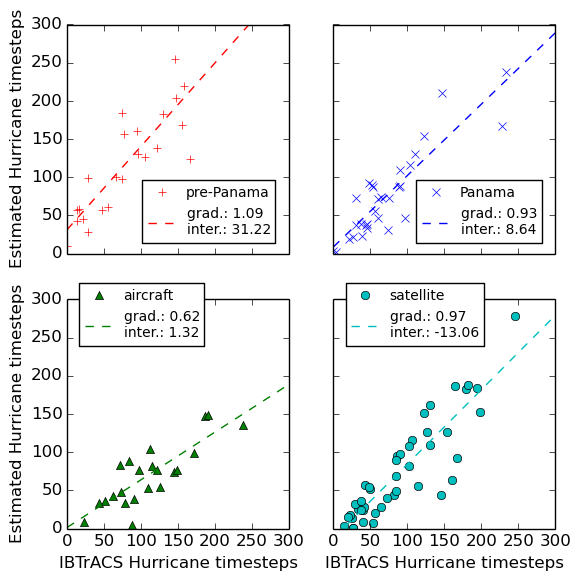
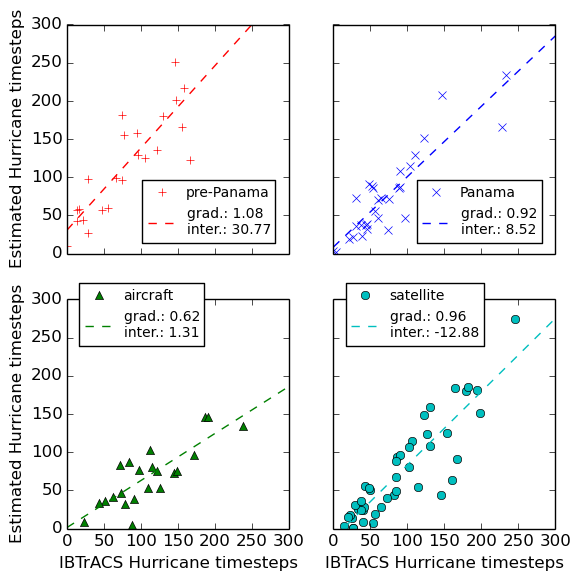
Tidy up some loose ends in 20th C analysis.
Make terminology consistent, fix adjustment ratio used in figs, add in a couple of clarifying
sentences.

diff --git a/dissertation.tex b/dissertation.tex
@@ -19,11 +19,6 @@
 % Get rid of annoying line under header.
 \renewcommand{\headrulewidth}{0pt}
 
-% Properly fixed by installing texlive-fonts-recommended
-% Temporary fix for missing font problem.
-% N.B. I know this is wrong, but there is a problem with missing fonts otherwise.
-% \renewcommand{\textdegree}{$^{\circ}$ }
-
 \lhead{}
 \chead{}
 \rhead{}
@@ -102,12 +97,12 @@ on classification success and error metrics. It is found that a Stochastic Gradi
 classifier combined with a simple threshold classifier produces the highest combined score on these
 metrics.
 
-The hurricane detection procedure is run over the course of the 20\ts{th} Century, and a comparison
+The hurricane detection procedure is run over the course of the 20\ts{th} century, and a comparison
 between the estimated number of hurricanes and the number as recorded in the IBTrACS dataset is
 performed. It is found that TODOWRITE
 
 \begin{center}
-\textbf{Word count:} 8194 % 7229 + 965 (captions) 24/08/14 18:14
+\textbf{Word count:} 9439 % 8221 + 1218 (captions) 26/08/14 11:08
 \end{center}
 
 \section*{Acknowledgements}
@@ -1173,24 +1168,27 @@ classifier to use.
 
 Figure \ref{fig:20th_century_hurricane_timesteps} shows a comparison of the number of hurricane
 timesteps (as defined in Section \ref{sec:ibtracs}) taken from the IBTrACS dataset, and calculated
-from the 20CR dataset. To work out the estimate for the number of hurricanes, the detection
-procedure was run over each year of the period from 1890 to 2009, and for each ensemble member. This
-was used to work out a value for the predicted number of hurricanes for each year, with one value
-per ensemble member. The sensitivity and PPV from the years 1990 to 2009 (the training and
-validation period combined) were used in the formula given in Section
-\ref{sec:estimated_hurricanes}, to give the estimated number of hurricanes for each year. The
-maximum and minimum numbers of hurricanes in any ensemble member were used to plot the light blue
-area, and the mean of the ensemble members was plotted using a blue dashed line.
+from the 20CR dataset. To calculate the estimate for the number of hurricane timesteps (henceforth
+estimated hurricane timesteps), the detection procedure was run over each year of the period from
+1890 to 2009, and for each ensemble member. This was used to work out a value for the predicted
+number of hurricane timesteps for each year, with one value per ensemble member. The sensitivity and
+PPV from the years 1990 to 2009 (the training and validation period combined) were used in the
+formula given in Section \ref{sec:estimated_hurricanes}, to give the estimated hurricane timesteps
+for each year. This was done multiplying each predicted number of hurricane timesteps by the PPV
+divided by the sensitivity, or a factor of $\frac{0.728}{0.637} = 1.143$ . The maximum and minimum
+numbers of estimated hurricane timesteps in any ensemble member were used to plot the light blue
+area, and the mean of the ensemble members was plotted using the blue dashed line.
 
 From the top graph in Figure \ref{fig:20th_century_hurricane_timesteps}, there is clearly a marked
 correlation between the two time series. There is also a suggestion of a discrepancy between the two
-time series in the pre-Panama canal era and the aircraft reconnaissance era, with the estimated
-hurricanes from the 20CR dataset being greater in the pre-Panama canal era, and fewer in the
+time series in the pre-Panama Canal era and the aircraft reconnaissance era, with the estimated
+hurricane timesteps being greater in the pre-Panama Canal era, and fewer in the
 aircraft reconnaissance era. This is borne out by the bottom graph in Figure 
-\ref{fig:20th_century_hurricane_timesteps}, which shows the best tracks hurricanes minus the
-estimated hurricanes. Here there is a clear sign that the best tracks number of hurricanes is
-substantially lower than the estimated hurricanes in the pre-Panama canal era, and also that the
-number of best tracks hurricanes is substantially larger in the aircraft (and early satellite) era.
+\ref{fig:20th_century_hurricane_timesteps}, which shows the best tracks hurricane timesteps minus the
+estimated hurricane timesteps. Here there is a clear sign that the best tracks hurricane timesteps
+is substantially lower than the estimated hurricane timesteps in the pre-Panama Canal era. It is
+also evident that the best tracks hurricane timesteps is substantially larger in the aircraft (and
+early satellite) era.
 
 \begin{figure}[ht!]
     \centering
@@ -1208,50 +1206,53 @@ number of best tracks hurricanes is substantially larger in the aircraft (and ea
 
 \newpage
 Figure \ref{fig:20th_century_hurricane_corr} shows the correlation of the two time series, first
-over the whole of the time period, and second by dividing the time period into two roughly equal
-periods, based on the start of aircraft reconnaissance (1944). Given the high $r^2$ value of \SI{0.63}{}
-shown in the first correlation plot, these series are very well correlated. The gradient is less than
-unity though which implies that the estimated hurricanes is underestimating how many hurricanes there
-were over the whole period (although this effect is slightly mitigated by the positive y-intercept).
-From analysing the two time periods separately, as in the second correlation plot, a clear
-distinction between the two periods can be seen, with the pre-1944 estimated numbers clearly
-estimating more hurricanes than were seen in the best tracks database, and the reverse being true in
-the post-1944 period. The pre-1944 period has a gradient of TODOCHECK and a y-intercept of TODOCHECK.
-The post-1944 period has a slop of TODOCHECK ad a y-intercept of TODOCHECK.
+over the whole of the time period, and second by splitting the time period into two roughly equal
+periods, based on the start of aircraft reconnaissance (1944). Given the high $r^2$ value of
+\SI{0.63}{} shown in the first correlation plot, these series are very well correlated. The gradient
+is less than unity though which implies that the estimated hurricane timesteps is underestimating
+how many hurricanes there were over the whole period (although this effect is slightly mitigated by
+the positive y-intercept).  From analysing the two time periods separately, as in the second
+correlation plot, a clear distinction between the two periods can be seen, with the pre-1944
+estimated numbers clearly estimating more hurricanes than were seen in the best tracks database, and
+the reverse being true in the post-1944 period.
 
 \begin{figure}[hb!]
     \centering
     \includegraphics[width=\textwidth]{figures/20th_century_corr}
-    \caption{Correlation plots showing the whole of the 20\ts{th} Century (left) and dividing the
-    20\ts{th} Century into pre-1944 and post-1944 (right). From the left plot, the high value for
-    $r^2$ indicates good correlation between the two datasets. From the right plot,  the different
+    \caption{Correlation plots showing the whole of the 20\ts{th} century (left) and splitting the
+    20\ts{th} century into pre-1944 and post-1944 (right). From the left plot, the high value for
+    $r^2$ indicates good correlation between the two time series. From the right plot, the different
     gradients of the lines of best fit indicate that in the pre-1944 period the estimated tracks
     were on average higher than the best tracks, and in the post-1944 period the estimates tracks were
-    lower.}
+    lower. The pre-1944 period has a gradient of \SI{1.04}{} and a y-intercept of \SI{15.31}{}. The
+    post-1944 period has a slop of \SI{0.83}{} and a y-intercept of \SI{-8.52}{}. }
     \label{fig:20th_century_hurricane_corr}
 \end{figure}
 
 \newpage
 Figure \ref{fig:20th_century_hurricane_corr_split} shows a finer breakdown of the two series, based
-on the four eras listed in Section TODOREF. This again shows that the number of estimated hurricanes
-in the pre-Panama Canal era is far higher than in the best tracks database, both due to the large 
-positive y-intercept and the gradient which is greater than unity. Reasons for this are discussed in
-Section TODOREF. In the next era, the Panama era, the gradient is slightly below unity, and the
+on the four eras listed in Section TODOREF. This again shows that the number of estimated hurricane
+timesteps in the pre-Panama Canal era is far higher than in the best tracks database, both due to
+the large positive y-intercept and the gradient which is greater than unity. Reasons for this are
+discussed in Section TODOREF. In the Panama Canal era, the gradient is slightly below unity, and the
 y-intercept is small and positive, which means that the two time series are well matched. The most
 surprising era is the aircraft reconnaissance era, for which the gradient is substantially less than
 unity, and the y-intercept is very close to zero. This means that during the aircraft reconnaissance
-era, the estimated hurricanes were almost always lower than the best tracks hurricanes. Reasons as
-to why this might be are discussed in Section TODOREF.  Finally, in the satellite era, the gradient is
-very close to unity, and the y-intercept is significantly negative, indicating that during this era
-the estimated number of hurricanes is systematically lower than the best tracks number of
-hurricanes.
+era, the estimated hurricane timesteps were almost always lower than the best tracks hurricane
+timesteps, with the effect becoming more pronounced as the hurricane timesteps per year increases.
+Reasons as to why this might be are discussed in Section TODOREF. Finally, in the satellite era, the
+gradient is very close to unity, and the y-intercept is significantly negative, indicating that
+during this era the estimated hurricane timesteps is systematically lower than the best tracks
+hurricane timesteps. This is to be expected given that the classification was trained on data from
+the last two decades from this era.
 
 \begin{figure}[ht!]
     \centering
     \includegraphics[width=\textwidth]{figures/20th_century_corr_split}
-    \caption{Individual correlation plots for each of the four eras. $r^2$ values were between 0.64
-        and 0.80, representing good correlation between the two time series for each era. The high
-        gradient for the pre-Panama era and the low gradient for the aircraft era are particularly noteworthy. }
+    \caption{Individual correlation plots for each of the four eras. $r^2$ values were between 0.68
+    and 0.80, representing good correlation between the two time series for each era. The high
+    gradient for the pre-Panama Canal era and the low gradient for the aircraft era are particularly
+    noteworthy. }
     \label{fig:20th_century_hurricane_corr_split}
 \end{figure}
 
@@ -1260,8 +1261,8 @@ hurricanes.
 \label{sec:trends_freq}
 
 For the four eras in question, it is interesting to note whether there are any trends in the numbers
-of hurricanes, both in the best tracks dataset, and in the estimated hurricane numbers. This is done
-by fitting a straight line to the time series, and performing a two-sided test on the $p$ value of the
+of hurricanes, both in the best tracks dataset, and in the estimated numbers. This is done by
+fitting a straight line to the time series, and performing a two-sided test on the $p$ value of the
 fitted line, as in \textcite{vecchi2008estimates, emanuel2010tropical}. The $p$ values for the
 different eras are shown in Table \ref{tab:era_p_value}.
 
@@ -1286,16 +1287,23 @@ different eras are shown in Table \ref{tab:era_p_value}.
 \newpage
 The test for statistical significance employed in this study is to test to see if $p \leq 0.05$.
 This test is used to see whether the null hypothesis that the time series in question is not
-changing (i.e. its gradient is zero) can be rejected.  This is the same as was used in
+changing (i.e. its gradient is zero) can be rejected. This is the same as was used in
 \textcite{vecchi2008estimates}. Based on this test for significance, three of the time series over
 the eras in Table \ref{tab:era_p_value} show statistically significant trends. The pre-Panama
 Canal era (1890 - 1914) for hurricane frequencies for best track and estimated track numbers both
 show significant downwards trends. However, the most significant change is shown by the estimated
 hurricane numbers in the satellite era (1966 - 2009) from only the 20CR dataset, which has a $p$
-value of \SI{0.001}{}. The same era in the best tracks number is not seen to show any significant
-rise, although the gradient of the line is positive.
+value of \SI{0.001}{}, and a positive gradient. Taken at face value this implies that there is
+a statistically significant positive trend over the final part of the 20\ts{th} century and start of
+the 21\ts{th} century in the number of hurricane timesteps, or a rise in the frequency of hurricanes
+since 1966. However, caution must be applied as there is also evidence that the number of estimated
+hurricanes timesteps was below what would be expected (see Figure
+\ref{fig:20th_century_hurricane_timesteps}), and therefore a ``rise'' could be due to
+underestimating how many hurricanes there were in the late 1960s and 1970s, rather than a genuine
+signal. The same era in the best tracks number is not seen to show any significant rise, although
+the gradient of the line is positive. 
 
-% \section{Hurricane Dissipated Power Index Over the 20\ts{th} Century}
+% \section{Hurricane Dissipated Power Index Over the 20\ts{th} century}
 
 \chapter{Discussion}
 \label{chap:discussion}
